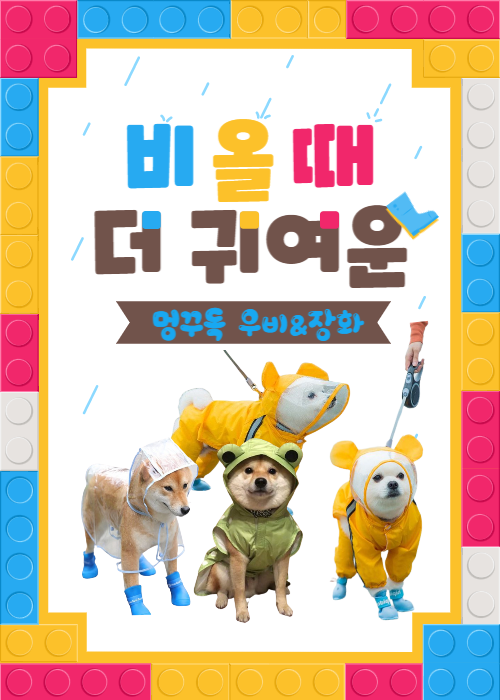
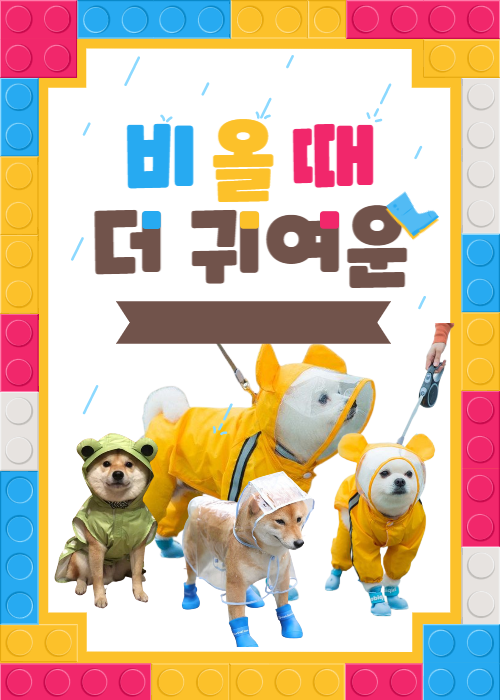
second commit

Changed region(s): [[0.09, 0.42, 0.9, 0.93], [0.3, 0.42, 0.45, 0.51]]

diff --git a/css/layout.css b/css/layout.css
@@ -313,15 +313,45 @@ p.price{
     position: relative;
     width: 25%;
 }
-.b-baner-con1 a{
+.b-baner2 a{
     display: flex;
     justify-content: center;
     align-items: center;
     position: absolute;
-    bottom: 62px;
+    
+    
+}
+.b-baner-con1 a{
+    bottom: 48px;
     left: 60px;
-    color: #dddddd;
-    font-size: 30px;
     width: 160px;
     height: 60px;
+    color: #dddddd;
+    font-size: 30px;
+}
+.b-baner-con2 a{
+    bottom: 0px;
+    width: 100%;
+    height: 60px;
+    color: #dddddd;
+    font-size: 30px;
+}
+.b-baner-con3 a{
+    bottom: 28px;
+    left: 68px;
+    width: 310px;
+    height: 60px;
+    color: #690000;
+    font-size: 28px;
+}
+.b-baner-con4 a{
+    top: 41%;
+    left: 28%;
+    height: 60px;
+    color: #dddddd;
+    font-size: 28px;
+}
+.test{
+    color: #2d4cc0;
+    font-size: 50px;
 }

diff --git a/index.html b/index.html
@@ -373,11 +373,14 @@
                     </div>
                     <div class="b-baner-con3">
                         <img src="image/b-baner04.png">
-                        <a href="#" title="">수제간식 기획전 >></a>
+                        <a href="#" title="">수제간식 기획전 바로보기</a>
                     </div>
                     <div class="b-baner-con4">
                         <img src="image/b-baner05.png">
                         <a href="#" title="">우비&장화 기획전 >></a>
+                    </div>
+                    <div class="test">
+                        <p>테스트테스트</p>
                     </div>
                     
                 </div>
